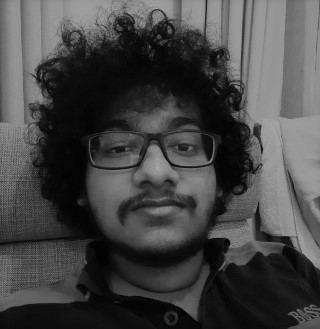
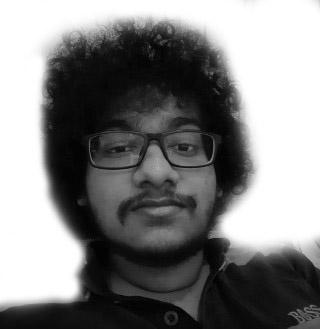
added about us images

diff --git a/web-frontend/src/pages/aboutUs/AboutUs.jsx b/web-frontend/src/pages/aboutUs/AboutUs.jsx
@@ -5,7 +5,9 @@ import hacker from '../../assests/hacker.png';
 import twitter from '../../assests/twitter.png';
 import linkedin from '../../assests/linkedin.png';
 import github from '../../assests/github.png';
+import manthila from '../../assests/manthila.png';
 import tharindu from '../../assests/tharindu.jpg';
+import nathindu from '../../assests/nathindu.png';
 import malith from '../../assests/malith.jpg';
 
 const AboutUs = () => {
@@ -49,7 +51,7 @@ const AboutUs = () => {
               <div className="cardAbout">
                 {/*team member image*/}
                 <img
-                  src={hacker}
+                  src={manthila}
                   alt="adeesha"
                   style={{
                     width: '50%',
@@ -229,7 +231,7 @@ const AboutUs = () => {
             <div className="columnAbout">
               <div className="cardAbout">
                 <img
-                  src={hacker}
+                  src={nathindu}
                   alt="nathindu"
                   style={{
                     width: '50%',
